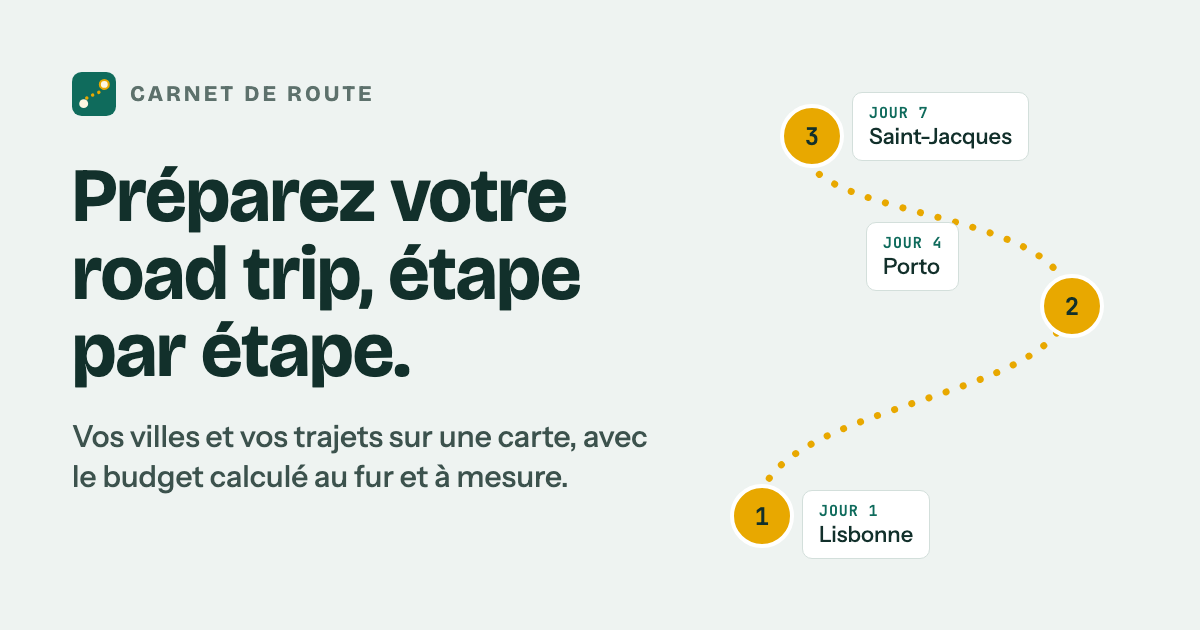
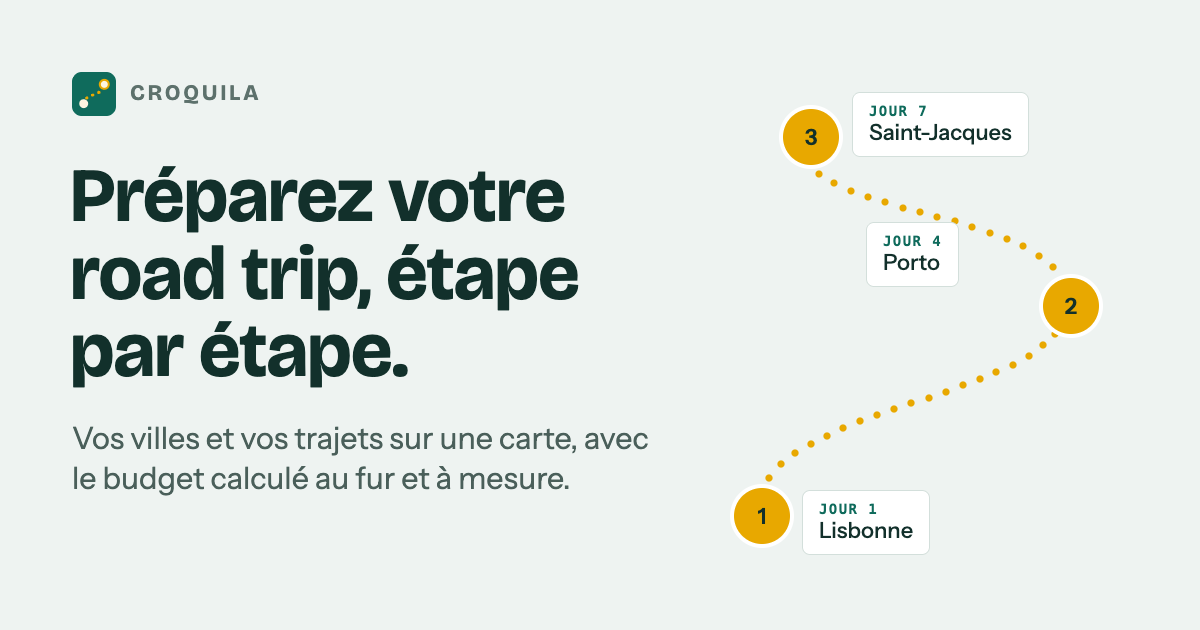
Renommer l'app en Croquila (accroche, image de partage, e-mails)

diff --git a/index.html b/index.html
@@ -3,7 +3,7 @@
 <head>
   <meta charset="utf-8">
   <meta name="viewport" content="width=device-width, initial-scale=1, viewport-fit=cover">
-  <title>Carnet de route : préparez votre road trip étape par étape</title>
+  <title>Croquila : préparez votre road trip étape par étape</title>
   <meta name="description" content="Préparez votre road trip étape par étape : vos villes et vos trajets sur une carte, avec le budget calculé au fur et à mesure.">
   <link rel="canonical" href="https://eviefjaa.github.io/carnet-de-route/">
 
@@ -19,15 +19,15 @@
   <link rel="apple-touch-icon" href="img/apple-touch-icon.png">
   <meta name="theme-color" content="#0f6b5c">
   <meta property="og:type" content="website">
-  <meta property="og:site_name" content="Carnet de route">
+  <meta property="og:site_name" content="Croquila">
   <meta property="og:locale" content="fr_FR">
   <meta property="og:url" content="https://eviefjaa.github.io/carnet-de-route/">
-  <meta property="og:title" content="Carnet de route : préparez votre road trip étape par étape">
+  <meta property="og:title" content="Croquila : préparez votre road trip étape par étape">
   <meta property="og:description" content="Vos villes et vos trajets sur une carte, avec le budget calculé au fur et à mesure.">
   <meta property="og:image" content="https://eviefjaa.github.io/carnet-de-route/img/partage.png">
   <meta property="og:image:width" content="1200">
   <meta property="og:image:height" content="630">
-  <meta property="og:image:alt" content="Carnet de route : un itinéraire Lisbonne, Porto, Saint-Jacques tracé en pointillés, avec le titre « Préparez votre road trip, étape par étape ».">
+  <meta property="og:image:alt" content="Croquila : un itinéraire Lisbonne, Porto, Saint-Jacques tracé en pointillés, avec le titre « Préparez votre road trip, étape par étape ».">
   <meta name="twitter:card" content="summary_large_image">
 
   <!-- Polices (hébergées sur le site) -->
@@ -67,7 +67,7 @@
           <button class="btn ghost menu-btn" id="menuBtn" data-act="open-menu" type="button" aria-label="Ouvrir le menu" aria-controls="sidebar" aria-expanded="false">
             <svg viewBox="0 0 24 24" width="22" height="22" fill="none" stroke="currentColor" stroke-width="2" stroke-linecap="round" aria-hidden="true"><path d="M4 7h16M4 12h16M4 17h16"/></svg>
           </button>
-          <span class="brand">Carnet de route</span>
+          <span class="brand">Croquila</span>
           <span class="spacer"></span>
           <div id="account" class="account"></div>
         </header>

diff --git a/scripts/reminders/reminders.js b/scripts/reminders/reminders.js
@@ -87,7 +87,7 @@ export function buildEmail(reminders, siteUrl) {
   const text = [
     "Bonjour,",
     "",
-    "Certaines choses ne sont pas encore cochées dans votre carnet de route :",
+    "Certaines choses ne sont pas encore cochées pour votre voyage sur Croquila :",
     "",
     ...reminders.flatMap((r) => [
       `${r.place} (${r.tripName}) : ${when(r.inDays)}, ${fmtDate(r.date)}`,
@@ -97,13 +97,13 @@ export function buildEmail(reminders, siteUrl) {
     ]),
     "Une fois réservées, cochez-les dans le site pour ne plus recevoir ce rappel.",
     "",
-    "Carnet de route",
+    "Croquila",
     "Pour ne plus recevoir ces e-mails : Paramètres → Rappels par e-mail.",
   ].join("\n");
 
   const html = `<div style="font-family:Arial,Helvetica,sans-serif;font-size:15px;line-height:1.5;color:#12302b;max-width:560px">
     <p>Bonjour,</p>
-    <p>Certaines choses ne sont pas encore cochées dans votre carnet de route :</p>
+    <p>Certaines choses ne sont pas encore cochées pour votre voyage sur Croquila :</p>
     ${reminders.map((r) => `
       <div style="border:1px solid #d3dfdb;border-radius:10px;padding:14px 16px;margin:12px 0">
         <div style="font-size:18px;font-weight:bold">${esc(r.place)}</div>
@@ -112,7 +112,7 @@ export function buildEmail(reminders, siteUrl) {
         <a href="${esc(siteUrl)}#voyage-${esc(r.tripId)}" style="display:inline-block;background:#0f6b5c;color:#fff;text-decoration:none;padding:8px 14px;border-radius:8px;font-size:14px">Ouvrir le voyage</a>
       </div>`).join("")}
     <p>Une fois réservées, cochez-les dans le site pour ne plus recevoir ce rappel.</p>
-    <p style="color:#5d716c;font-size:12px">Carnet de route · Pour ne plus recevoir ces e-mails : Paramètres → Rappels par e-mail.</p>
+    <p style="color:#5d716c;font-size:12px">Croquila · Pour ne plus recevoir ces e-mails : Paramètres → Rappels par e-mail.</p>
   </div>`;
 
   return { subject, text, html };

diff --git a/js/views/trip.js b/js/views/trip.js
@@ -31,7 +31,7 @@ const PAGE_META = {
   profile: ["Mon profil", "Votre profil, vos abonnés et vos itinéraires publiés."],
   settings: ["Paramètres", "Thème, devise par défaut, rappels par e-mail et export de vos voyages."],
   feed: ["Fil d'actualité", "Les derniers itinéraires des voyageurs que vous suivez."],
-  discover: ["Découvrir", "Les derniers itinéraires publiés par la communauté Carnet de route."],
+  discover: ["Découvrir", "Les derniers itinéraires publiés par la communauté Croquila."],
   publications: ["Mes publications", "Vos itinéraires publiés et leur visibilité."],
   notifications: ["Notifications", "Commentaires, abonnements et voyageurs qui rejoignent vos voyages."],
 };
@@ -47,7 +47,7 @@ function setMeta() {
     : ["person", "post"].includes(state.view) ? socialTitle()
     : state.view === "network" ? [NETWORK_PAGES[state.networkTab] || "Mon profil", PAGE_META.profile[1]]
     : PAGE_META[state.view] || PAGE_META.trips;
-  document.title = `${title} · Carnet de route`;
+  document.title = `${title} · Croquila`;
   document.querySelector('meta[name="description"]')?.setAttribute("content", description);
 }
 

diff --git a/404.html b/404.html
@@ -3,8 +3,8 @@
 <head>
   <meta charset="utf-8">
   <meta name="viewport" content="width=device-width, initial-scale=1, viewport-fit=cover">
-  <title>Page introuvable · Carnet de route</title>
-  <meta name="description" content="Cette page n'existe pas sur Carnet de route.">
+  <title>Page introuvable · Croquila</title>
+  <meta name="description" content="Cette page n'existe pas sur Croquila.">
   <meta name="robots" content="noindex">
   <meta http-equiv="Content-Security-Policy" content="script-src 'none'; style-src 'self'; font-src 'self'; img-src 'self'; base-uri 'self'">
   <link rel="icon" href="/carnet-de-route/img/favicon.svg" type="image/svg+xml">
@@ -19,7 +19,7 @@
 <body class="standalone">
   <main class="wrap">
     <section class="page welcome">
-      <a class="back" href="/carnet-de-route/">Carnet de route</a>
+      <a class="back" href="/carnet-de-route/">Croquila</a>
       <h1>Cette page n'existe pas.</h1>
       <p class="lead">Le lien est peut-être incomplet, ou la page a été déplacée. Vos voyages, eux, sont toujours là.</p>
       <div class="row-btns">

diff --git a/js/views/social.js b/js/views/social.js
@@ -397,11 +397,11 @@ export function socialTitle() {
   if (state.view === "person") {
     const e = social.peek("person:" + state.personId);
     const p = e.status === "ok" && e.data && e.data.profile;
-    return p ? [`${p.name} (@${p.handle})`, p.bio || `Les itinéraires de ${p.name} sur Carnet de route.`] : ["Profil", "Profil d'un voyageur sur Carnet de route."];
+    return p ? [`${p.name} (@${p.handle})`, p.bio || `Les itinéraires de ${p.name} sur Croquila.`] : ["Profil", "Profil d'un voyageur sur Croquila."];
   }
   const e = social.peek("post:" + state.postId);
   const p = e.status === "ok" && e.data;
-  return p ? [p.title, `Itinéraire publié par ${p.ownerName} sur Carnet de route.`] : ["Itinéraire", "Itinéraire publié sur Carnet de route."];
+  return p ? [p.title, `Itinéraire publié par ${p.ownerName} sur Croquila.`] : ["Itinéraire", "Itinéraire publié sur Croquila."];
 }
 
 // ---------- Recommandations ----------

diff --git a/css/layout.css b/css/layout.css
@@ -20,8 +20,11 @@
   display: flex; flex-direction: column; gap: 18px;
 }
 
-.side-head { display: flex; align-items: center; justify-content: space-between; padding: 0 8px; }
+.side-head { display: flex; align-items: flex-start; gap: 8px; justify-content: space-between; padding: 0 8px; }
 .side-brand { font-family: var(--display); font-weight: 700; font-size: 18px; }
+/* Nom et accroche, l'un sous l'autre */
+.side-id { display: flex; flex-direction: column; gap: 2px; min-width: 0; }
+.side-tagline { font-size: 12px; line-height: 1.3; color: var(--muted); text-wrap: balance; }
 .side-close { display: none; }
 
 .side-nav { display: flex; flex-direction: column; gap: 2px; }

diff --git a/js/views/sidebar.js b/js/views/sidebar.js
@@ -52,7 +52,10 @@ export function renderSidebar() {
 
   el.innerHTML = `
     <div class="side-head">
-      <span class="side-brand">Carnet de route</span>
+      <div class="side-id">
+        <span class="side-brand">Croquila</span>
+        <span class="side-tagline">Tout grand voyage commence par un croquis</span>
+      </div>
       <button class="btn ghost small side-close" data-act="close-menu" type="button" aria-label="Fermer le menu">✕</button>
     </div>
     <nav class="side-nav" aria-label="Pages">${links}</nav>

diff --git a/scripts/reminders/send-reminders.js b/scripts/reminders/send-reminders.js
@@ -141,7 +141,7 @@ async function remindAccount(uid, label) {
   }
 
   try {
-    await mailer.sendMail({ from: `Carnet de route <${process.env.GMAIL_USER}>`, to: email, subject, text, html });
+    await mailer.sendMail({ from: `Croquila <${process.env.GMAIL_USER}>`, to: email, subject, text, html });
     await sentRef.set(Object.fromEntries(due.map((r) => [r.key, today])), { merge: true });
     sentCount++;
     console.log(`${label} : e-mail envoyé`);

diff --git a/js/events.js b/js/events.js
@@ -470,7 +470,7 @@ function exportTrips() {
   const url = URL.createObjectURL(new Blob([data], { type: "application/json" }));
   const a = document.createElement("a");
   a.href = url;
-  a.download = `carnet-de-route-${new Date().toISOString().slice(0, 10)}.json`;
+  a.download = `croquila-${new Date().toISOString().slice(0, 10)}.json`;
   document.body.appendChild(a);
   a.click();
   a.remove();

diff --git a/js/share.js b/js/share.js
@@ -49,7 +49,7 @@ function openInviteMail(email, t, id) {
   const body = [
     "Bonjour,",
     "",
-    `${who} vous invite à préparer le voyage « ${name} » sur Carnet de route.`,
+    `${who} vous invite à préparer le voyage « ${name} » sur Croquila.`,
     "",
     "Pour le rejoindre :",
     `1. Ouvrez ce lien : ${link}`,

diff --git a/README.md b/README.md
@@ -1,4 +1,8 @@
-# Carnet de route
+# Croquila
+
+*Tout grand voyage commence par un croquis.*
+
+L'application s'appelait « Carnet de route ». Certains éléments gardent volontairement l'ancien nom : les clés de stockage du navigateur (`carnet-route-trips`, `carnet-route-current`, `carnet-route-prefs`, les changer ferait perdre leurs voyages aux personnes sans compte), l'identifiant du projet Firebase (`carnet-de-route-23ffc`) et l'adresse du site (`/carnet-de-route/`).
 
 Petit site pour planifier un road trip : étapes, hébergements (liens Airbnb, Booking…), trajets avec horaires, carte du voyage et budget. Un menu donne accès aux idées de destinations (fiches pays), aux favoris, au profil et aux paramètres.
 
